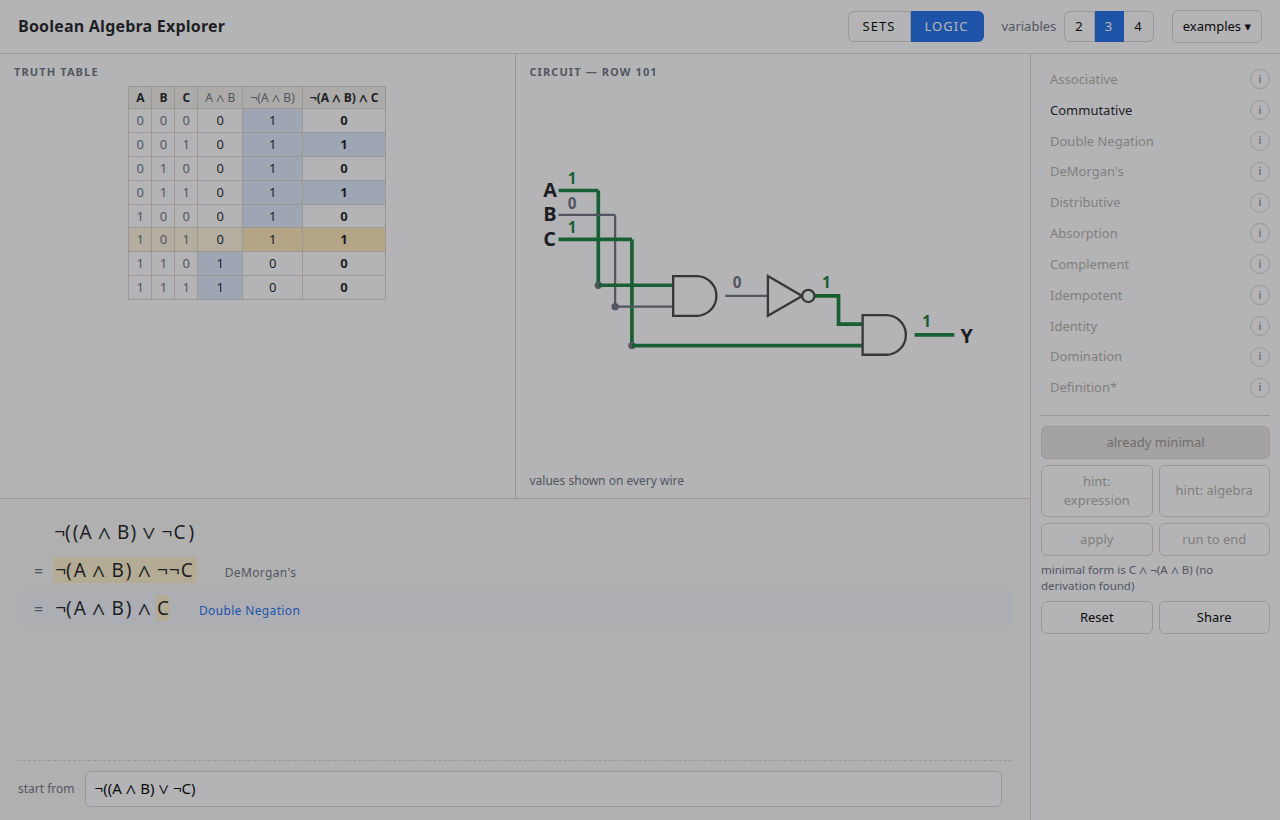
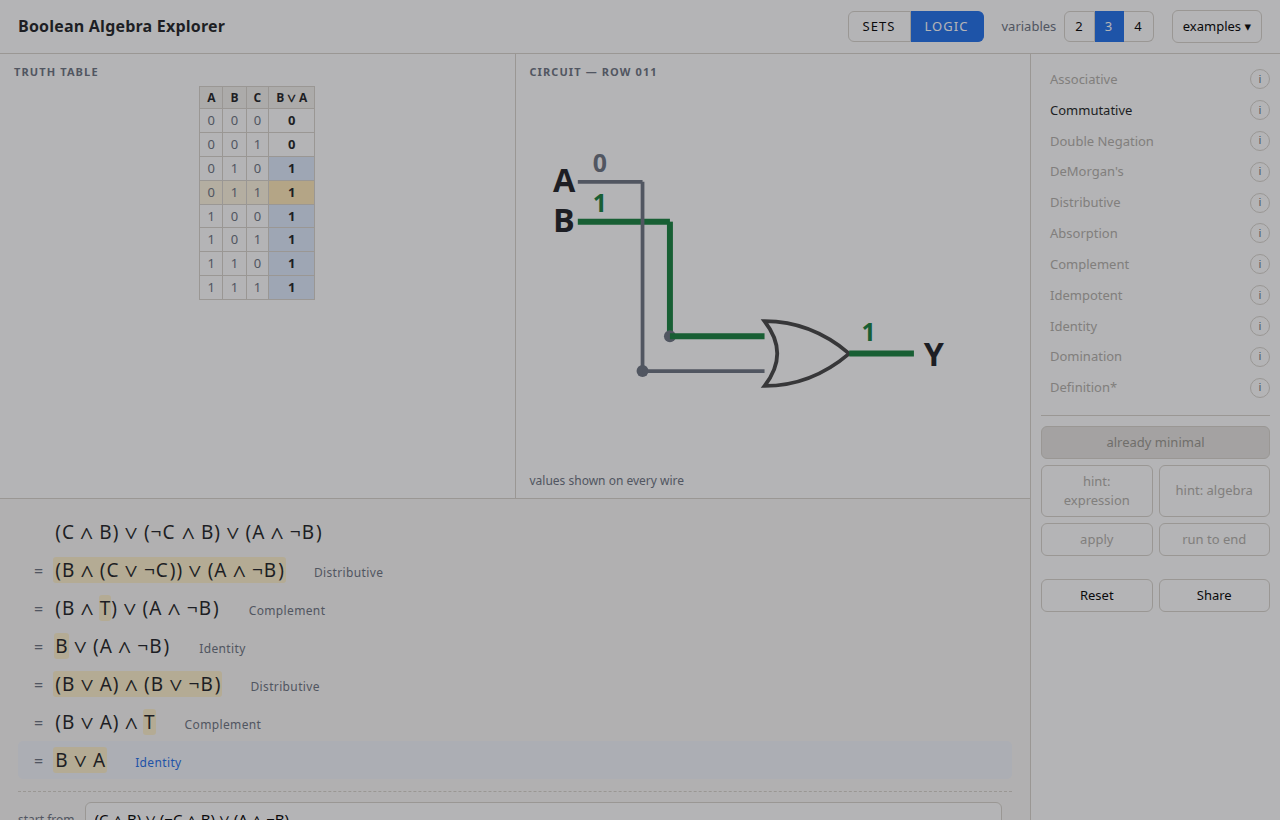
Add Commutative to the handout; unstar it in the tool
logic_set_identities.odt now carries a Commutative Laws row beside
Associative, in both the logic and set columns, as real formula objects
matching the row above rather than pasted text. The tool needs the law:
the matcher cannot otherwise apply the handout's own "empty set union A
= A" to a student's "A union empty set", and bringing two non-adjacent
chain terms together is a commutative move. With it on the sheet, the
tool stops starring it -- Definition is now the only off-handout rule.

This also unblocks patches/vip-fix-associative-label.patch, which
previously would have cited a law students had never been given.

The handout is regenerated as a one-page PDF. Adding the row pushed
Domination onto a second page, orphaning its heading under a stale
CS5002 master-page header, so the ten section spacers were tightened
from 11pt to 8pt to bring it back to one page. A backup of the original
is noted in the session report.

Deployed to https://matthigger.github.io/boolalg/ from main /docs.
Verified against the live URL, not just locally: 53 core and 44
interaction tests pass there, and the circuit04 example produces the
posted solution -- including (B or not B) at step four, where the
course's own PDF has (C or not C). That is the typo the other patch
fixes, reproduced independently.

diff --git a/SPEC.md b/SPEC.md
@@ -99,7 +99,7 @@ scrolling on a laptop; panes scroll internally.
     ├─────────────────────┴──────────────────┤  Idempotent   [x2]ⓘ │
     │  EXPRESSION                            │  Identity     [x2]ⓘ │
     │                                        │  Domination   [x2]ⓘ │
-    │    (A ∧ B) ∨ ¬C                        │  Commutative* [x2]ⓘ │
+    │    (A ∧ B) ∨ ¬C                        │  Commutative  [x2]ⓘ │
     │  = ¬(A ∧ B) ∧ C          DeMorgan's    │                     │
     │  = ...                                 │  [ Simplify ]       │
     │                                        │  [ hint ▾ ]         │
@@ -120,7 +120,7 @@ available in logic mode only (§12).
 target from the rule row itself, so a demo can never be triggered by a
 misplaced click meant to apply a rule.
 
-`*` Commutative is not on the handout; see §18, item 1.
+`*` marks a rule not on the handout — only `Definition` (§8.3).
 
 ### 3.1 First load
 
@@ -319,7 +319,7 @@ motivates it — applying Complement to `¬p ∨ ¬q ∨ p`, where the two terms
 are not adjacent:
 
       ¬p ∨ ¬q ∨ p
-    = ¬p ∨ p ∨ ¬q        Commutative*     ← select `¬q ∨ p`, swap
+    = ¬p ∨ p ∨ ¬q        Commutative      ← select `¬q ∨ p`, swap
     = T ∨ ¬q             Complement       ← select `¬p ∨ p`
     = T                  Domination
 
@@ -336,7 +336,7 @@ the first only re-brackets (`(¬p ∨ ¬q) ∨ p` to `¬p ∨ ¬q ∨ p`) and is
 correctly labelled, while the second reorders terms
 (`¬p ∨ ¬q ∨ p` to `(¬p ∨ p) ∨ ¬q`) and is commutativity wearing the
 wrong name. In flat notation the first vanishes entirely and the second
-is the single `Commutative*` step above.
+is the single `Commutative` step above.
 
 ### 5.2.2 What is left for Associative
 
@@ -692,7 +692,8 @@ They are **input and viewer sugar, not algebra**:
       A − B  =  A ∩ B^C            Definition of difference
       A Δ B  =  (A − B) ∪ (B − A)  Definition of symmetric difference
 
-  labelled `Definition` and marked `*` as off-handout (§18, item 1).
+  labelled `Definition` and marked `*` as off-handout (§18, item 1),
+  the only starred rule.
 
 So a student can load `(A ∪ B) − C` off a problem sheet, see it shaded,
 and must apply the definition before any handout law becomes available —
@@ -1150,12 +1151,16 @@ Settled by the course materials or by explicit instruction. Recorded
 here with the evidence, so a future reader can tell a decision from a
 guess.
 
-1. **Off-handout rules are marked `*`.** The tool needs three things the
-   handout lacks: commutativity (the matcher cannot otherwise apply the
-   handout's own `∅ ∪ A = A` to a student's `A ∪ ∅`), and the two
-   `Definition` rules for `−` and `Δ` (§8.3). All three are labelled
-   with a trailing `*` and footnoted as not being on the handout, so a
-   student never cites a law the course did not give them.
+1. **Commutative was added to the handout; only `Definition` is
+   starred.** The tool cannot work without commutativity — the matcher
+   could not otherwise apply the handout's own `∅ ∪ A = A` to a
+   student's `A ∪ ∅`, and bringing two non-adjacent terms of a chain
+   together is a commutative move (§5.2.1). Rather than have the tool
+   cite a law the course had not given, `Commutative Laws` was added to
+   `logic_set_identities.odt` beside Associative, in both columns.
+   The two `Definition` rules for `−` and `Δ` (§8.3) remain off-handout
+   and keep their trailing `*`, so a student still never cites a law the
+   course did not give them.
 
 2. **Flat rendering and an n-ary AST.** `¬p ∨ ¬q ∨ p`, not
    `(¬p ∨ ¬q) ∨ p` (§5.1). Evidence: every worked solution in
@@ -1241,16 +1246,18 @@ guess.
 16. **Row order is `000, 001, 010, ...` with the first variable as MSB**
     (§2.1). Evidence: `circuit04.tex`'s solution table.
 
-Still open, with a default in place so nothing is blocked:
+Settled since:
 
-- **`=` vs `≡`.** Logic problems use both. Defaulted to `=`, with `≡`
-  as a notation option. This is the only item still open.
+- **`=` vs `≡`.** Logic problems use both; `=` is used throughout, per
+  instruction. Nothing else is open.
 
 ---
 
 ## Appendix A — the CS1800 handout, transcribed
 
 From `reference/logic_set_identities.pdf` (source `.odt` alongside).
+The Commutative row was added to the master handout as part of this
+work; see §18, item 1.
 Boolean algebra on the left (`P, Q, R` Boolean variables), set algebra on
 the right (`A, B, C` subsets of a universal set `U`). The handout uses
 the `C` superscript rather than bar notation for complement; they mean
@@ -1260,6 +1267,8 @@ the same thing.
 |---|---|---|
 | Associative | `(P ∨ Q) ∨ R = P ∨ (Q ∨ R)` | `(A ∪ B) ∪ C = A ∪ (B ∪ C)` |
 | | `(P ∧ Q) ∧ R = P ∧ (Q ∧ R)` | `(A ∩ B) ∩ C = A ∩ (B ∩ C)` |
+| Commutative | `P ∨ Q = Q ∨ P` | `A ∪ B = B ∪ A` |
+| | `P ∧ Q = Q ∧ P` | `A ∩ B = B ∩ A` |
 | Double Negation | `¬¬P = P` | `(A^C)^C = A` |
 | DeMorgan's | `¬(P ∨ Q) = ¬P ∧ ¬Q` | `(A ∪ B)^C = A^C ∩ B^C` |
 | | `¬(P ∧ Q) = ¬P ∨ ¬Q` | `(A ∩ B)^C = A^C ∪ B^C` |
@@ -1325,11 +1334,10 @@ const RULES = [
   { group: 'Domination',      lhs: 'or(T,$1)',          rhs: 'T' },
   { group: 'Domination',      lhs: 'and(F,$1)',         rhs: 'F' },
 
-  // not on the handout; see §18, item 1. Applied to a two-term run of a
-  // chain it swaps those terms in place, which is how a student brings
-  // non-adjacent terms together (§5.2.1).
-  { group: 'Commutative*',    lhs: 'or($1,$2)',         rhs: 'or($2,$1)' },
-  { group: 'Commutative*',    lhs: 'and($1,$2)',        rhs: 'and($2,$1)' },
+  // Applied to a two-term run of a chain it swaps those terms in place,
+  // which is how a student brings non-adjacent terms together (§5.2.1).
+  { group: 'Commutative',     lhs: 'or($1,$2)',         rhs: 'or($2,$1)' },
+  { group: 'Commutative',     lhs: 'and($1,$2)',        rhs: 'and($2,$1)' },
 
   // sets mode only; the sole rules that may touch a sugar node (§8.3)
   { group: 'Definition*',     lhs: 'diff($1,$2)',       rhs: 'and($1,not($2))' },

diff --git a/patches/README.md b/patches/README.md
@@ -22,28 +22,20 @@ The printed answer is still right, because `C ∨ ¬C` and `B ∨ ¬B` are
 both `T` — which is why it survived proofreading, and why comparing
 truth tables would not have caught it. Unambiguous fix, no dependencies.
 
-## `vip-fix-associative-label.patch` — needs a decision first
+## `vip-fix-associative-label.patch` — now safe to apply
 
 `boolean_formula_derivation_vip.tex` labels two steps `(Associative)`.
 The first is correct (pure re-bracketing). The second turns
 `¬p ∨ ¬q ∨ p` into `(¬p ∨ p) ∨ ¬q`, moving `p` past `¬q` — commutativity,
 not associativity. The patch relabels it `(Commutative)`.
 
-**The catch: `logic_set_identities.pdf` has no commutative law.** So
-applying this patch cites a law the handout does not give students.
-There are three ways out, in rough order of preference:
-
-1. **Add Commutative to the handout.** It belongs there — every other
-   presentation of these identities has it, and the step genuinely needs
-   it. Then this patch is correct as written. This also lets the tool
-   drop the `*` it currently uses to mark Commutative as off-handout
-   (SPEC.md section 18, item 1).
-2. **Rewrite the derivation** to avoid the reorder. There is no way to
-   reach `T` from `(¬p ∨ ¬q) ∨ p` by re-bracketing alone, so this means
-   restructuring earlier steps, not editing this line.
-3. **Leave it.** The step is doing real work and students follow it; the
-   label is just wrong. The tool will name commutativity regardless, so
-   a student comparing the two will see the mismatch.
+This originally depended on a decision, because the handout had no
+commutative law and the patch would have cited a law students were never
+given. **That is resolved:** `Commutative Laws` has been added to
+`materials/logic_set_identities.odt` (and its PDF regenerated), beside
+Associative, in both the logic and set columns. So the label this patch
+introduces is now one students have on their sheet, and the tool no
+longer stars it.
 
 Also worth noting while in this file: it labels the complement law
 `(Negation)` in three places, where the handout says `Complement`.

diff --git a/README.md b/README.md
@@ -7,6 +7,10 @@ identity is visibly a rewrite that does not change the picture.
 
 **[Try it](https://matthigger.github.io/boolalg/)** — no install, no login.
 
+![logic mode](media/logic-mode.png)
+
+Sets mode shows the same expression as a Venn diagram:
+
 ![sets mode](media/sets-mode.png)
 
 - **docs/** — the app. Plain ES modules, no build step: open
